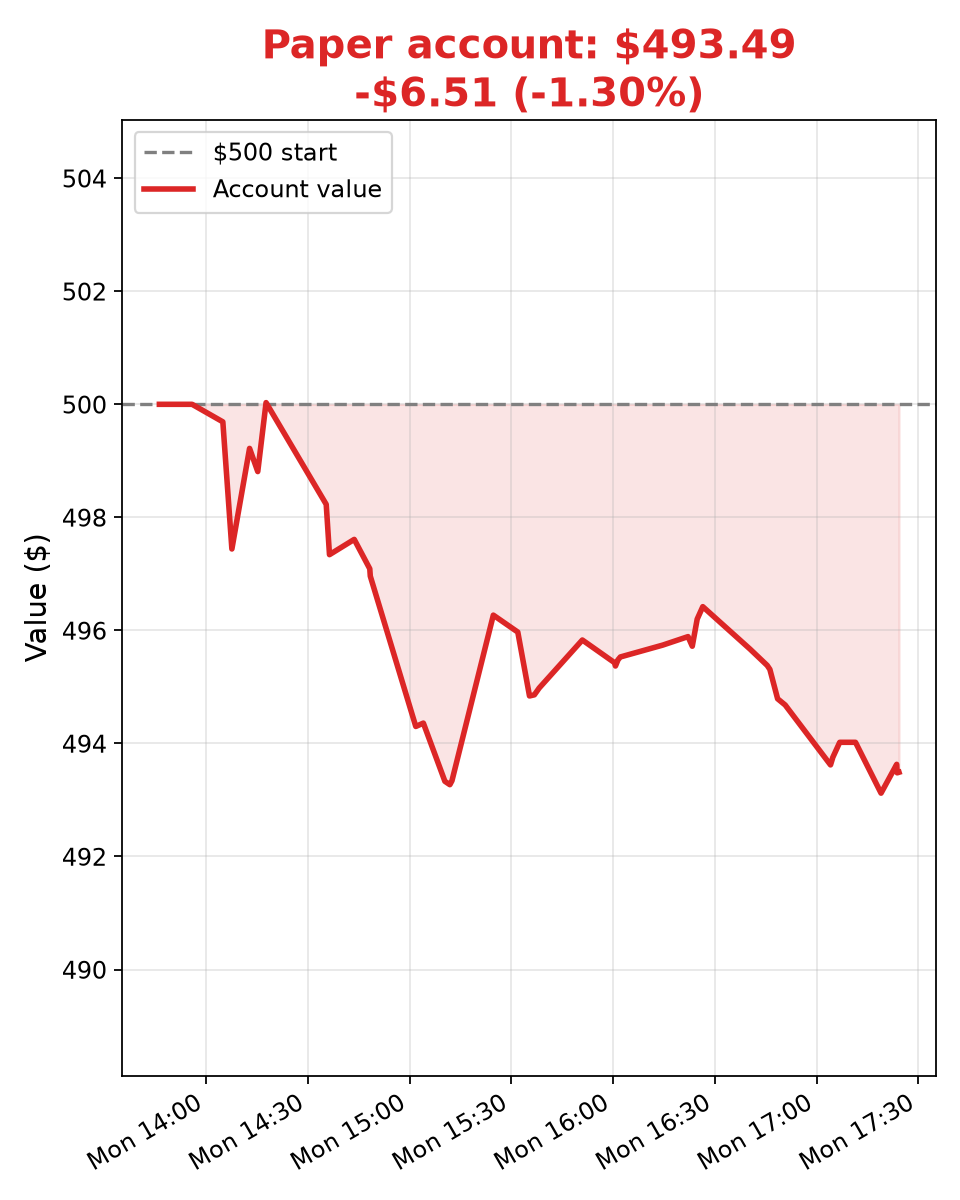
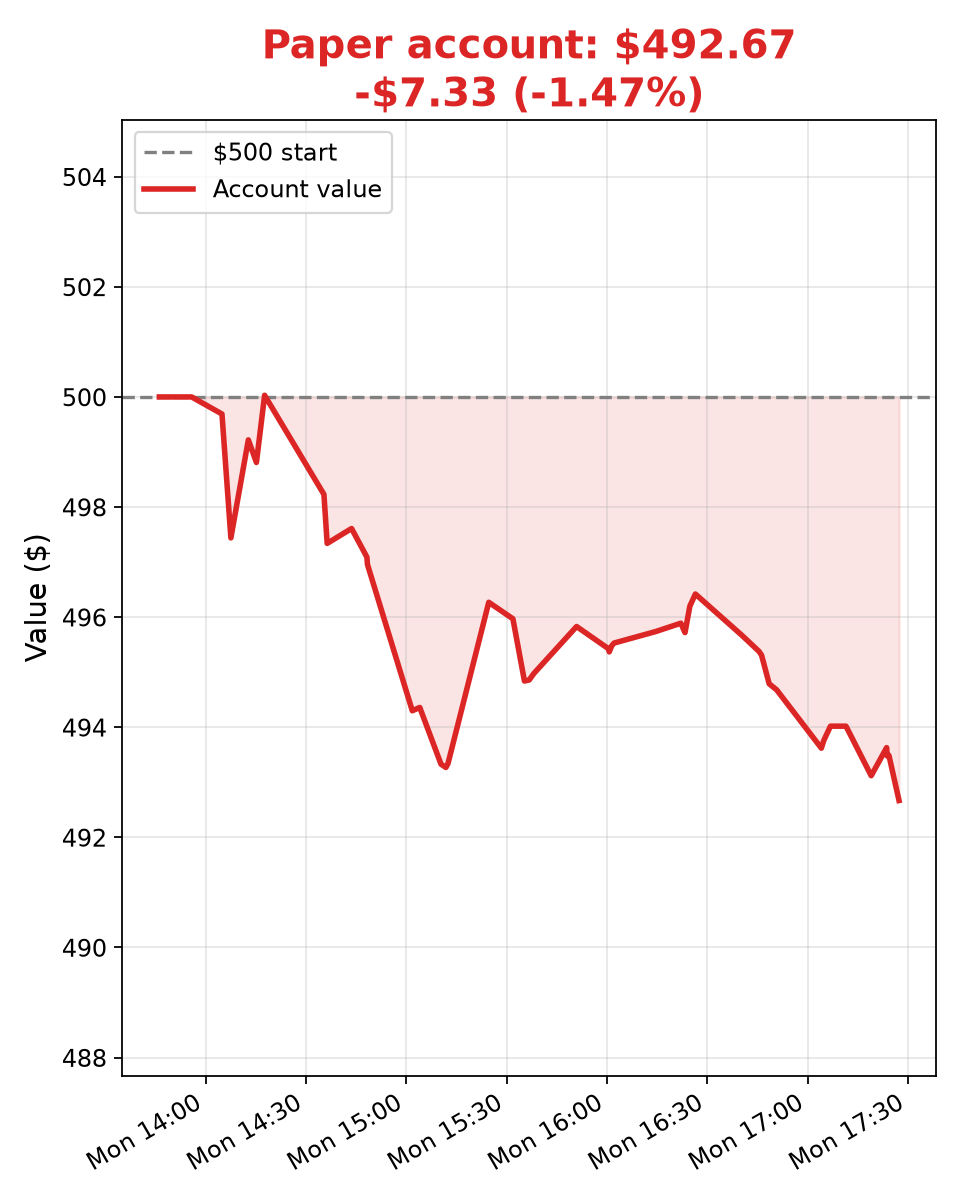
Update 2026-10-12T17:27:29Z

diff --git a/ledger.md b/ledger.md
@@ -76,3 +76,4 @@
 - 2026-10-12T17:23:45Z — total $493.48, cash $98.62 (Bot4 mark, no trade; FRO 58.57, DHT 25.805, ASTS 53.324 marked; no stops/targets hit)
 
 - 2026-10-12T17:24:17Z — total $493.49, cash $98.62 (Bot2 mark, no trade; FRO 58.55, DHT 25.795, ASTS 53.39 marked; no stops/targets hit)
+- 2026-10-12T17:27:18Z — total $492.67, cash $98.62 (Jr mark, no trade; FRO 58.41, DHT 25.73, ASTS 53.335 marked; no stops/targets hit)
